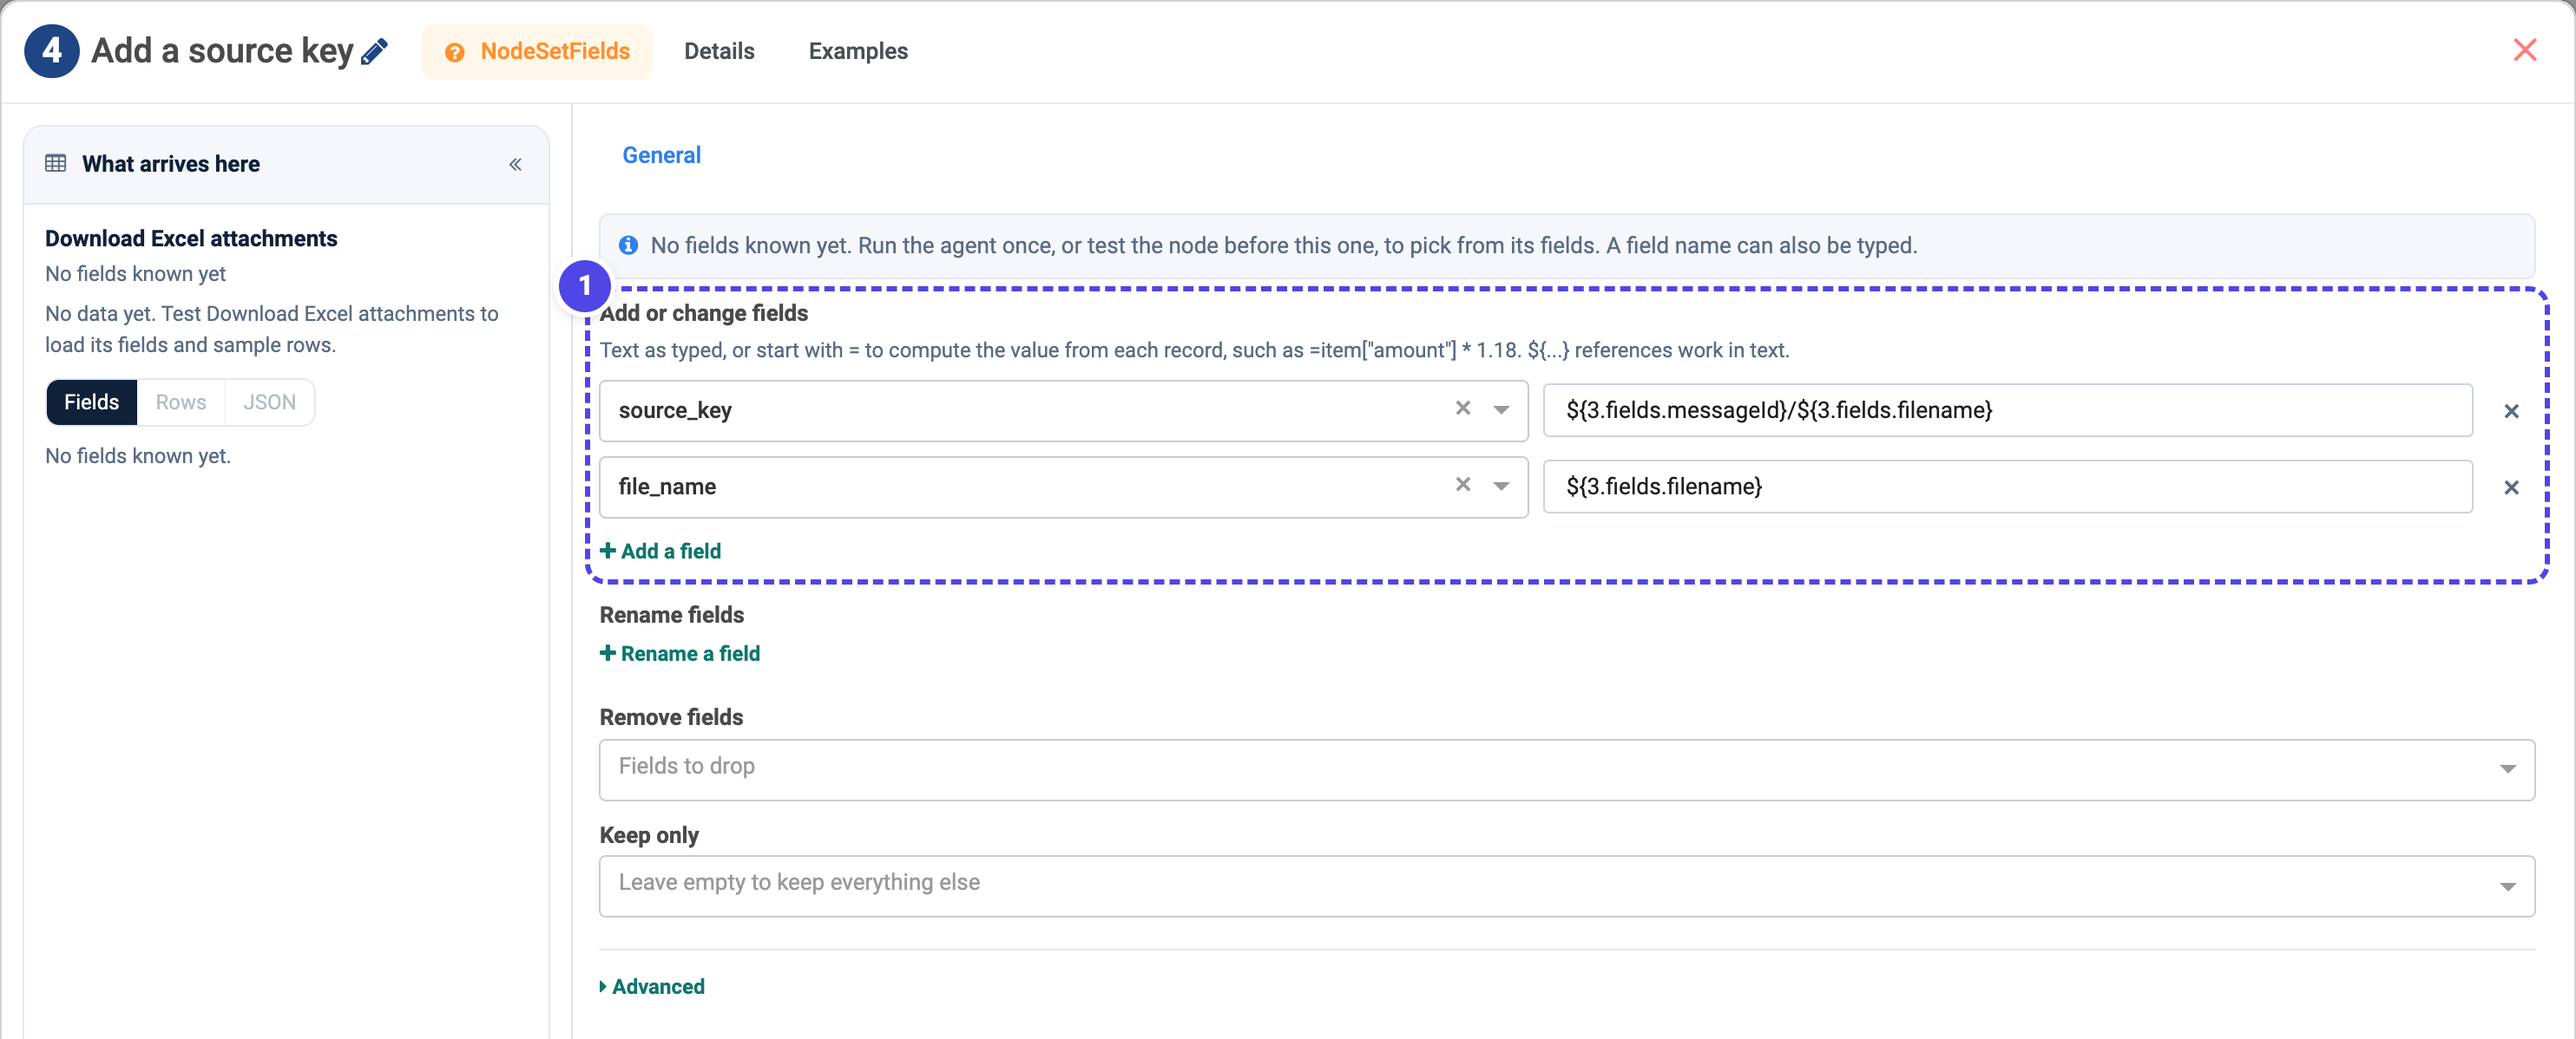
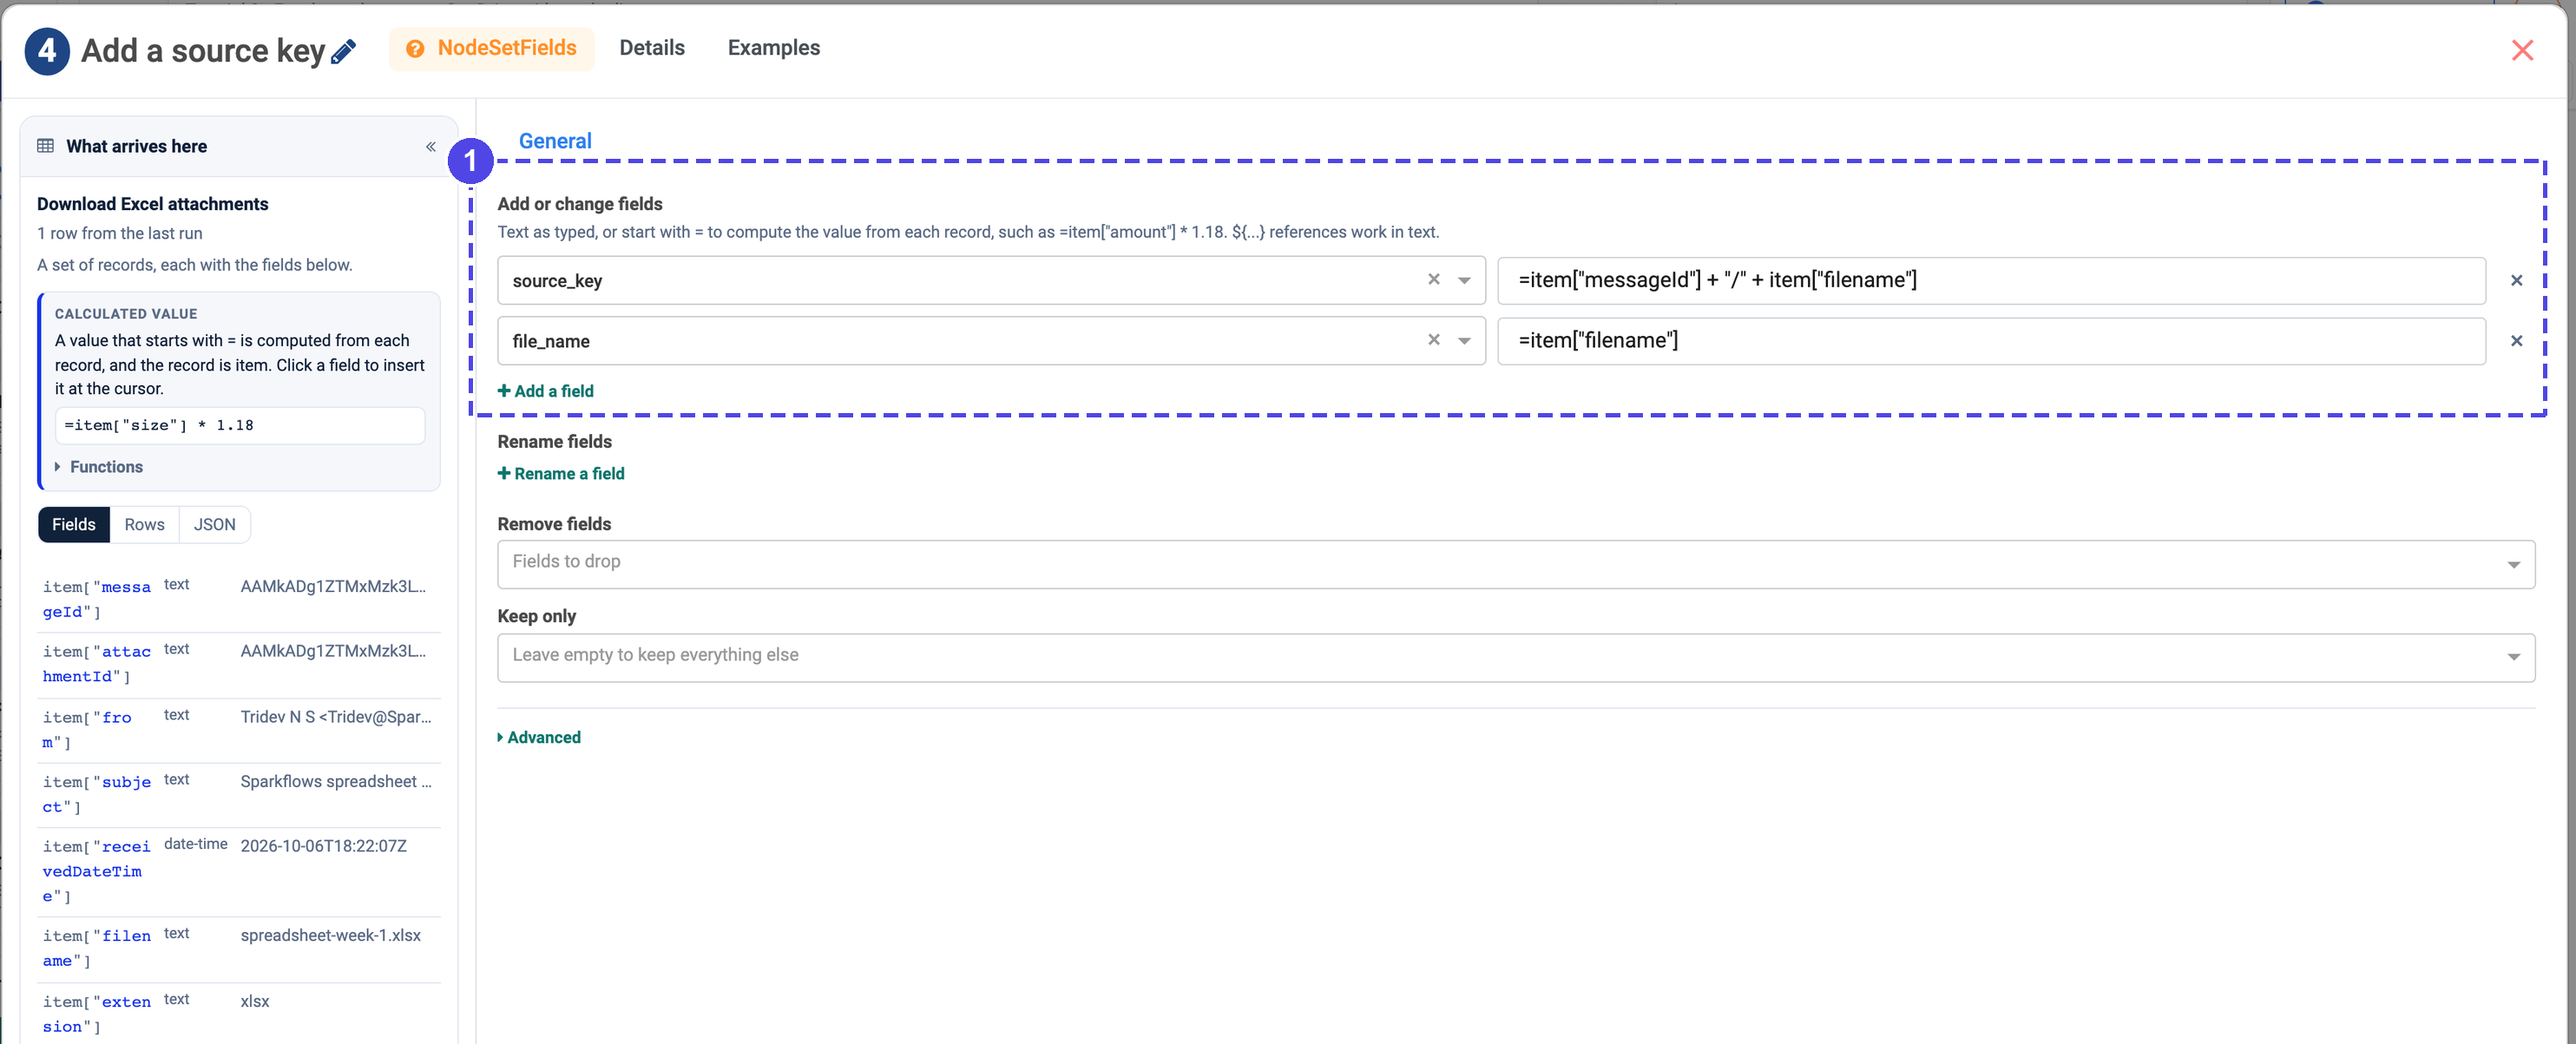
docs: dedup tutorials build source_key per attachment with =item[...] expressions
A ${3.fields...} reference fills in the first attachment's value for every
row, so all attachments shared one key and a second email's new file was
compared against the wrong key. Verified live: with ${3.fields...} the week-1
row got the week-2 key; with =item["messageId"] + "/" + item["filename"]
each row gets its own key and the second run keeps only the new file.
New source-key figures from the latest development build.

diff --git a/docs/agentic-ai-guide/end-to-end-examples/spreadsheet-dedup-google.rst b/docs/agentic-ai-guide/end-to-end-examples/spreadsheet-dedup-google.rst
@@ -137,14 +137,16 @@ Set **File types** to ``xlsx`` and **Save into folder** to your engine folder.
 
 The duplicate check needs one value that identifies a file the same way on every
 run. Open **Add a source key** (Set Fields) and under **Add or change fields**
-add ``source_key`` as ``${3.fields.messageId}/${3.fields.filename}`` and
-``file_name`` as ``${3.fields.filename}``.
+add ``source_key`` as ``=item["messageId"] + "/" + item["filename"]`` and
+``file_name`` as ``=item["filename"]``. A value that starts with ``=`` is
+computed from each record on its own, so every attachment gets its own key.
 
 .. figure:: ../../_assets/agentic-ai-guide/tutorials/spreadsheet-dedup-google/source-key.png
    :alt: Set Fields builds source_key from the message id and filename, and file_name from the filename
    :width: 100%
 
-   **1** builds a stable ``source_key`` from the message id and the file name.
+   **1** builds a stable ``source_key`` for each attachment from its message id
+   and file name.
    The same email and file always produce the same key, which is what lets a
    later run recognise it.
 
@@ -153,6 +155,11 @@ add ``source_key`` as ``${3.fields.messageId}/${3.fields.filename}`` and
    Use a key that stays the same across runs and is unique per file. The message
    id plus the filename is a good default. The filename alone is enough only if
    filenames are never reused.
+
+   Build the key with ``=`` and ``item[...]``, not with ``${3.fields...}``. A
+   ``${...}`` reference fills in one value - the first attachment's - for every
+   row, so all attachments would share one key and the duplicate check would
+   compare the wrong files.
 
 4. Keep only the new attachments
 --------------------------------

diff --git a/docs/agentic-ai-guide/end-to-end-examples/spreadsheet-dedup-microsoft.rst b/docs/agentic-ai-guide/end-to-end-examples/spreadsheet-dedup-microsoft.rst
@@ -136,14 +136,16 @@ engine folder.
 
 The duplicate check needs one value that identifies a file the same way on every
 run. Open **Add a source key** (Set Fields) and under **Add or change fields**
-add ``source_key`` as ``${3.fields.messageId}/${3.fields.filename}`` and
-``file_name`` as ``${3.fields.filename}``.
+add ``source_key`` as ``=item["messageId"] + "/" + item["filename"]`` and
+``file_name`` as ``=item["filename"]``. A value that starts with ``=`` is
+computed from each record on its own, so every attachment gets its own key.
 
 .. figure:: ../../_assets/agentic-ai-guide/tutorials/spreadsheet-dedup-microsoft/source-key.png
    :alt: Set Fields builds source_key from the message id and filename, and file_name from the filename
    :width: 100%
 
-   **1** builds a stable ``source_key`` from the message id and the file name.
+   **1** builds a stable ``source_key`` for each attachment from its message id
+   and file name.
    The same email and file always produce the same key, which is what lets a
    later run recognise it.
 
@@ -152,6 +154,11 @@ add ``source_key`` as ``${3.fields.messageId}/${3.fields.filename}`` and
    Use a key that stays the same across runs and is unique per file. The message
    id plus the filename is a good default. The filename alone is enough only if
    filenames are never reused.
+
+   Build the key with ``=`` and ``item[...]``, not with ``${3.fields...}``. A
+   ``${...}`` reference fills in one value - the first attachment's - for every
+   row, so all attachments would share one key and the duplicate check would
+   compare the wrong files.
 
 4. Keep only the new attachments
 --------------------------------
